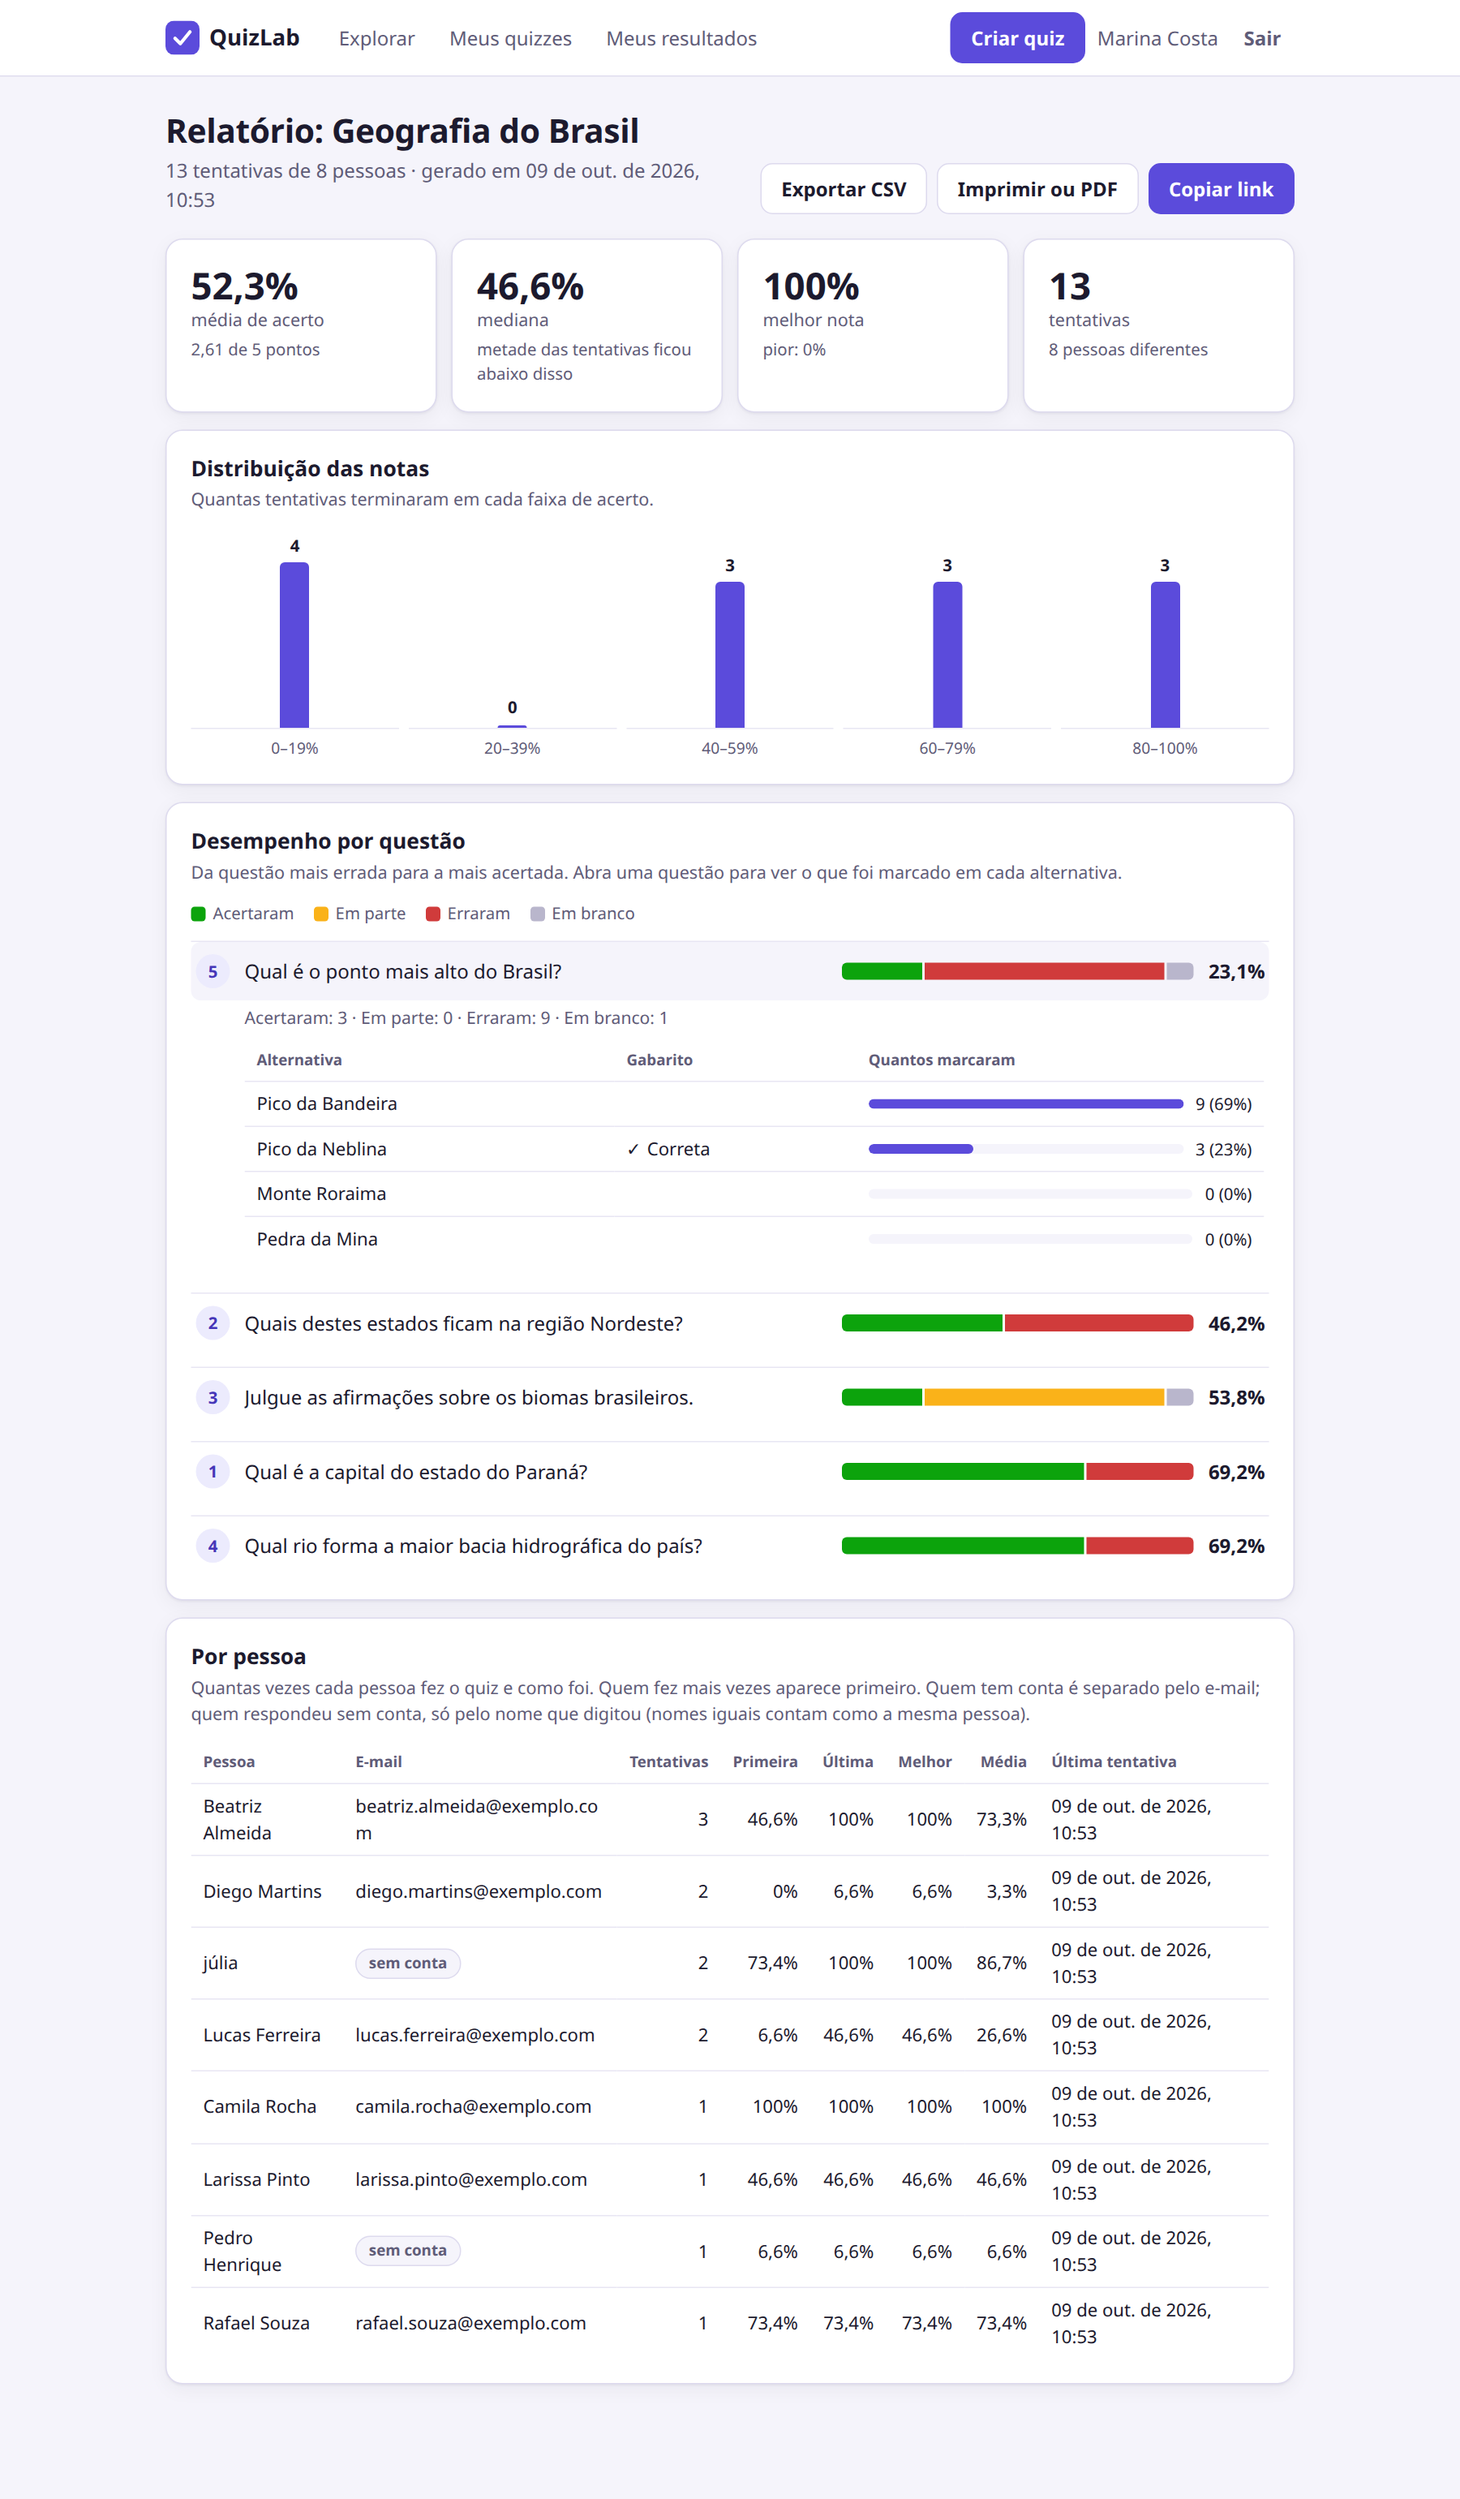
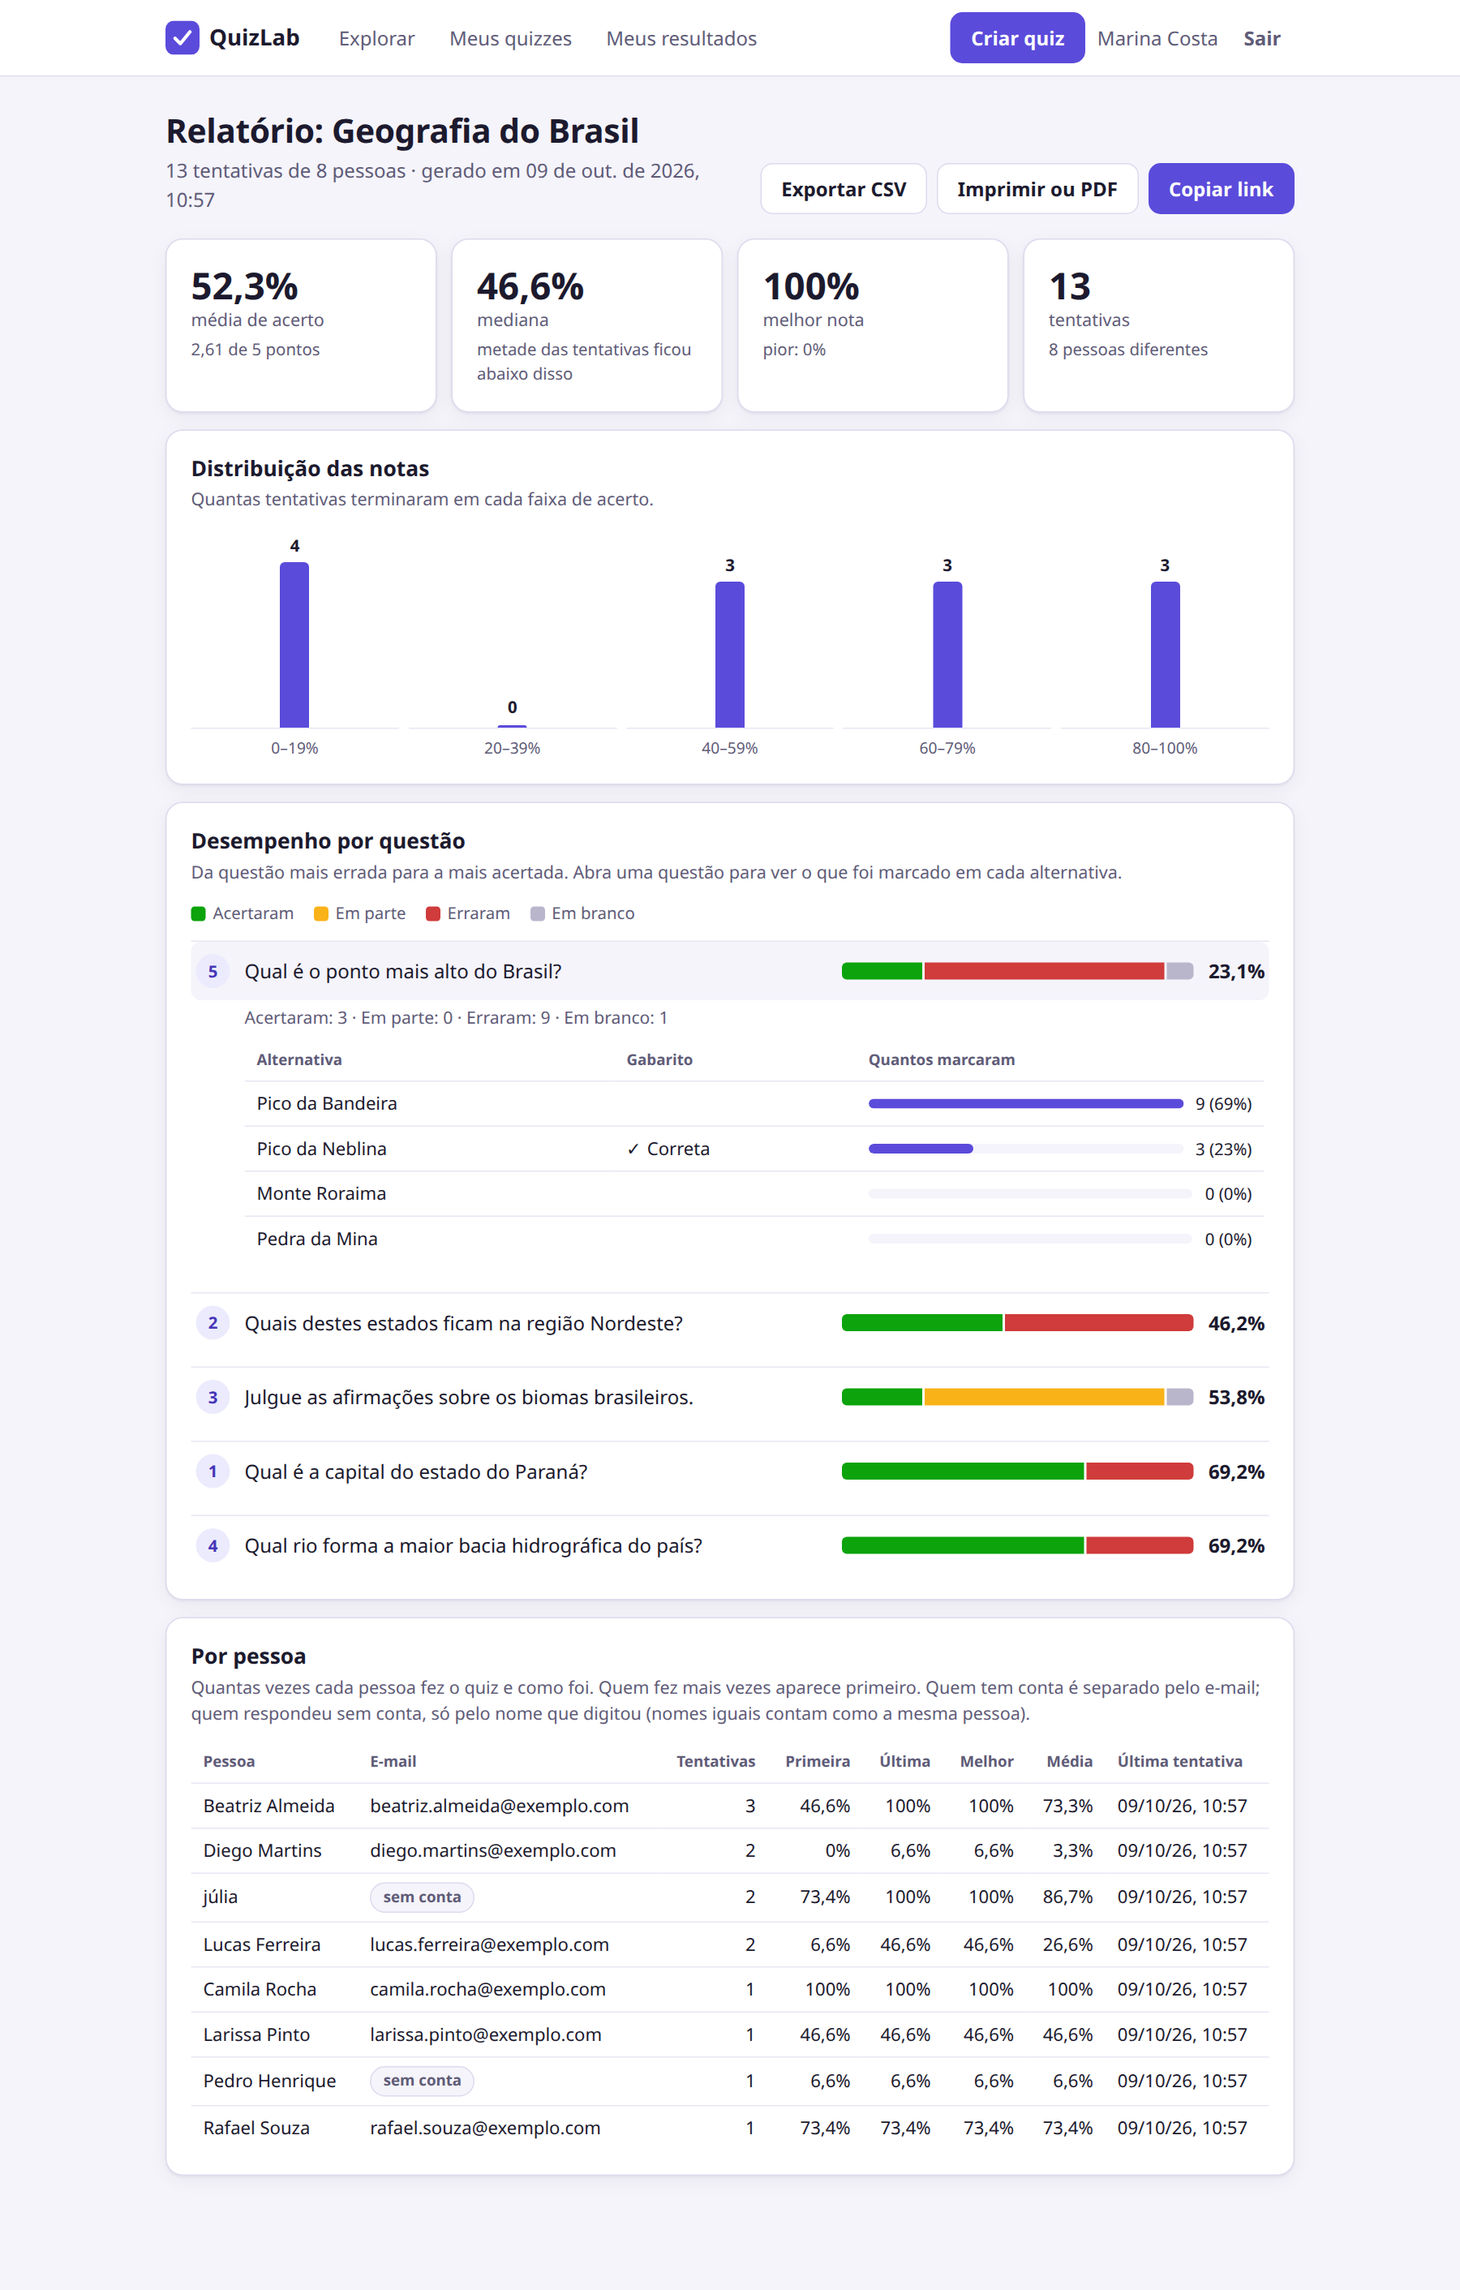
Deixa compacta a data da última tentativa no relatório
Na tabela por pessoa, a data passa a aparecer como 09/10/26, 10:40, numa
linha só. Atualiza a captura do relatório usada no README.

diff --git a/web/app.js b/web/app.js
@@ -164,6 +164,11 @@ function data(iso) {
     return new Date(iso).toLocaleString("pt-BR", { day: "2-digit", month: "short", year: "numeric", hour: "2-digit", minute: "2-digit" });
 }
 
+/** Data compacta para tabelas: 09/10/26, 10:40. */
+function dataCurta(iso) {
+    return new Date(iso).toLocaleString("pt-BR", { day: "2-digit", month: "2-digit", year: "2-digit", hour: "2-digit", minute: "2-digit" });
+}
+
 function linkDoQuiz(codigo) {
     return `${location.origin}${location.pathname}#/q/${codigo}`;
 }
@@ -1219,7 +1224,7 @@ async function telaRespostas(codigo) {
                     h("td", null, p.semConta ? h("span", { class: "selo" }, "sem conta") : p.email),
                     h("td", { class: "num" }, p.tentativas), h("td", { class: "num" }, pct(p.primeira)),
                     h("td", { class: "num" }, pct(p.ultima)), h("td", { class: "num" }, pct(p.melhor)), h("td", { class: "num" }, pct(p.media)),
-                    h("td", null, data(p.ultimaEm)))))))),
+                    h("td", { class: "sem-quebra" }, dataCurta(p.ultimaEm)))))))),
 
         h("h2", { class: "titulo-secao nao-imprime" }, "Todas as tentativas"),
         h("p", { class: "sub nao-imprime", style: "margin:-8px 0 12px" }, "Abra uma tentativa para ver o que a pessoa marcou em cada questão."),

diff --git a/web/styles.css b/web/styles.css
@@ -395,6 +395,7 @@ input[type="radio"], input[type="checkbox"] { accent-color: var(--destaque); wid
 .tabela td { overflow-wrap: anywhere; }
 .tabela .num { text-align: right; font-variant-numeric: tabular-nums; white-space: nowrap; }
 .tabela .larga { width: 40%; }
+.tabela .sem-quebra { white-space: nowrap; }
 .tabela tbody tr:last-child td { border-bottom: 0; }
 .medidor { display: flex; align-items: center; gap: 10px; }
 .medidor .barra { flex: 1; min-width: 50px; height: 8px; }
